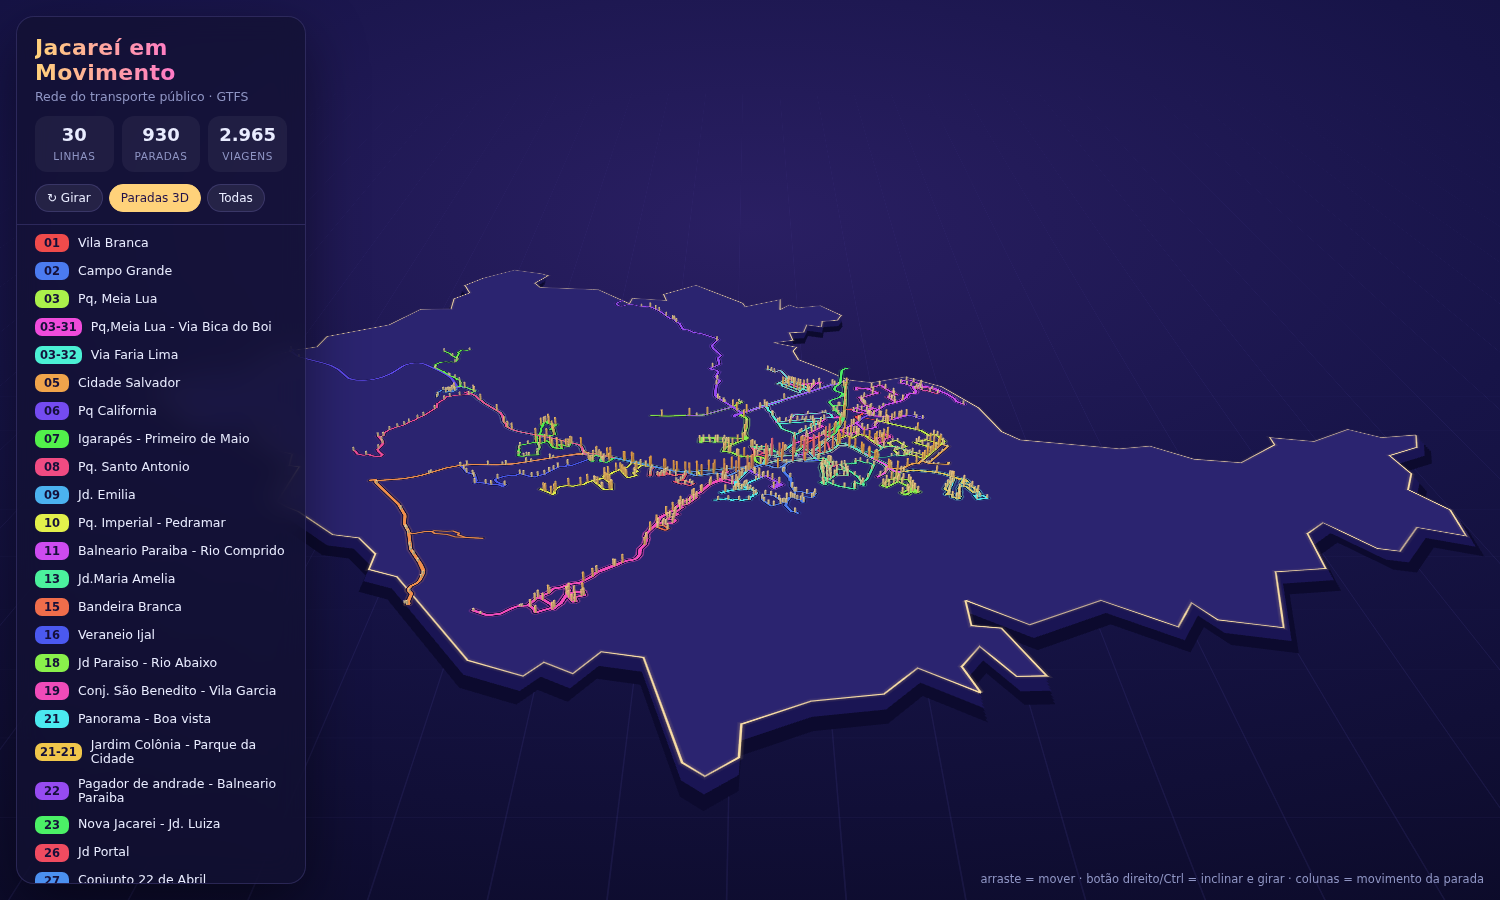
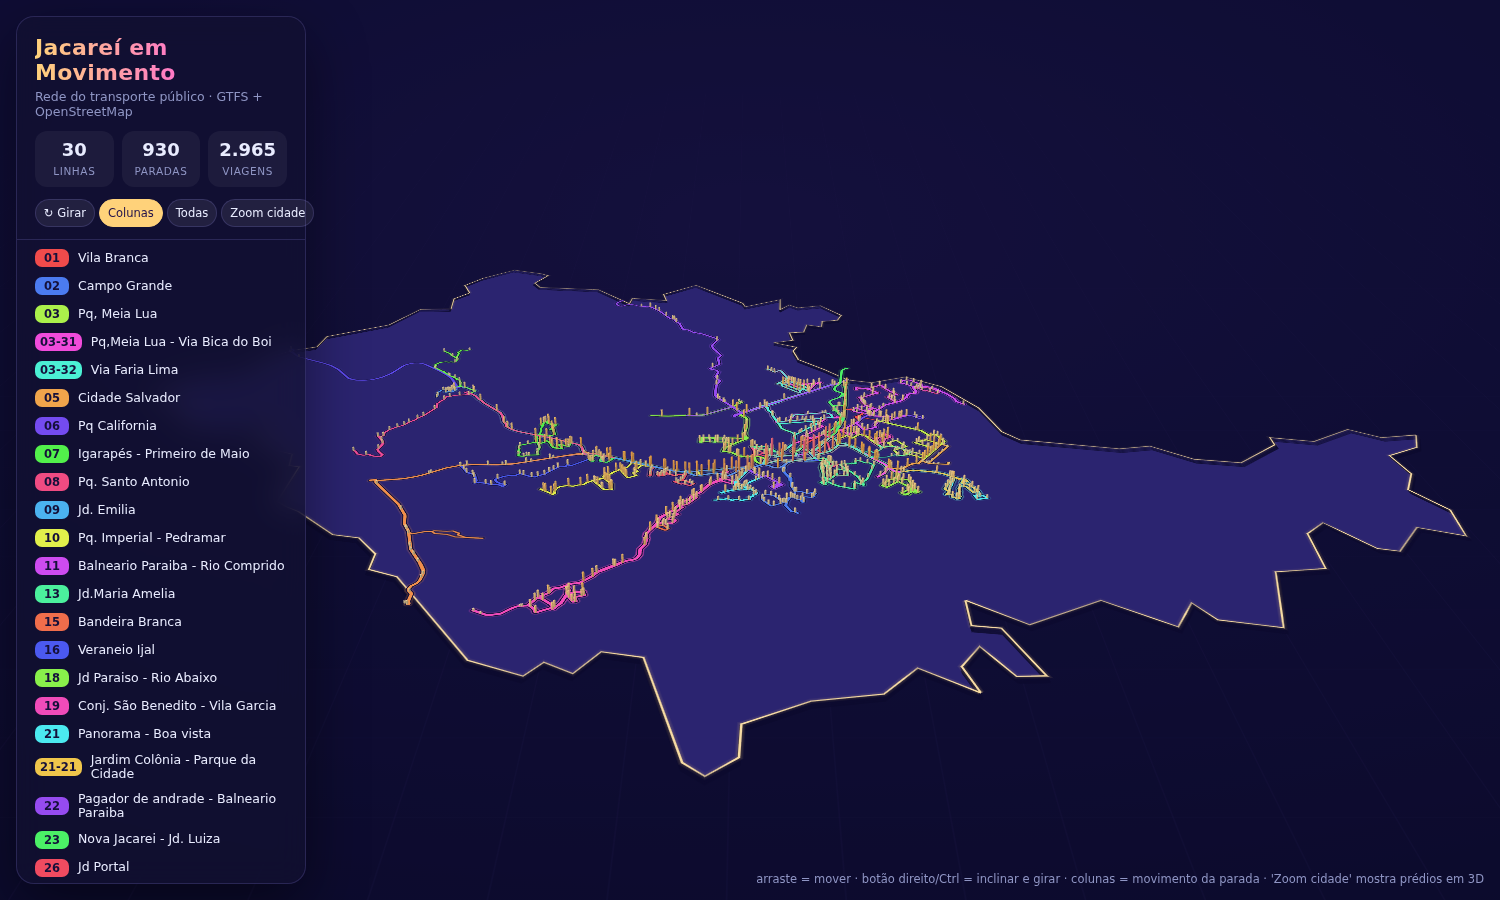
Adiciona contexto urbano (ruas, água, parques, prédios 3D) via OpenFreeMap
Claude-Session: https://claude.ai/code/session_01AVHW5ibafKLZc8BskQ5qtg

diff --git a/jacarei/mapa-transporte-publico-jacarei.html b/jacarei/mapa-transporte-publico-jacarei.html
@@ -15,8 +15,8 @@ h1{margin:0;font-size:22px;letter-spacing:.3px;font-weight:700;background:linear
 .stats{display:flex;gap:8px;padding:0 18px 12px}
 .stat{flex:1;background:rgba(255,255,255,.05);border-radius:12px;padding:8px 6px;text-align:center}
 .stat b{display:block;font-size:18px}.stat span{font-size:10.5px;color:var(--dim);text-transform:uppercase;letter-spacing:.6px}
-.btns{display:flex;gap:6px;padding:0 18px 12px}
-button{font:inherit;font-size:12px;color:var(--ink);background:rgba(255,255,255,.07);border:1px solid var(--line);border-radius:999px;padding:6px 11px;cursor:pointer}
+.btns{display:flex;gap:4px;white-space:nowrap;padding:0 18px 12px}
+button{font:inherit;font-size:11.5px;color:var(--ink);background:rgba(255,255,255,.07);border:1px solid var(--line);border-radius:999px;padding:6px 8px;cursor:pointer}
 button:hover{background:rgba(255,255,255,.15)}button.on{background:#ffd27a;color:#22124a;border-color:#ffd27a}
 #list{overflow:auto;padding:4px 10px 12px;border-top:1px solid var(--line)}
 .row{display:flex;align-items:center;gap:9px;padding:5px 8px;border-radius:10px;cursor:pointer;font-size:12.5px}
@@ -29,12 +29,12 @@ button:hover{background:rgba(255,255,255,.15)}button.on{background:#ffd27a;color
 </style></head><body>
 <div id="map"></div><div id="tip"></div>
 <aside id="panel">
- <header><h1>Jacareí em Movimento</h1><div class="sub">Rede do transporte público · GTFS</div></header>
+ <header><h1>Jacareí em Movimento</h1><div class="sub">Rede do transporte público · GTFS + OpenStreetMap</div></header>
  <div class="stats"><div class="stat"><b id="sl"></b><span>linhas</span></div><div class="stat"><b id="ss"></b><span>paradas</span></div><div class="stat"><b id="st"></b><span>viagens</span></div></div>
- <div class="btns"><button id="rot">↻ Girar</button><button id="bars" class="on">Paradas 3D</button><button id="all">Todas</button></div>
+ <div class="btns"><button id="rot">↻ Girar</button><button id="bars" class="on">Colunas</button><button id="all">Todas</button><button id="city">Zoom cidade</button></div>
  <div id="list"></div>
 </aside>
-<div id="hint">arraste = mover · botão direito/Ctrl = inclinar e girar · colunas = movimento da parada</div>
+<div id="hint">arraste = mover · botão direito/Ctrl = inclinar e girar · colunas = movimento da parada · 'Zoom cidade' mostra prédios em 3D</div>
 <script>/**
  * MapLibre GL JS
  * @license 3-Clause BSD. Full text of license: https://github.com/maplibre/maplibre-gl-js/blob/v4.7.1/LICENSE.txt
@@ -101,7 +101,7 @@ const info=D.info.sort((a,b)=>a.r.localeCompare(b.r,'pt',{numeric:true}));
 const cx=-45.96,cy=-23.30;
 const bb=[[Infinity,Infinity],[-Infinity,-Infinity]];
 D.mun.geometry.coordinates[0].forEach(([x,y])=>{bb[0][0]=Math.min(bb[0][0],x);bb[0][1]=Math.min(bb[0][1],y);bb[1][0]=Math.max(bb[1][0],x);bb[1][1]=Math.max(bb[1][1],y)});
-const map=new maplibregl.Map({container:'map',style:{version:8,sources:{},layers:[]},bounds:[[-46.09,-23.37],[-45.78,-23.23]],fitBoundsOptions:{padding:{left:340,top:20,right:20,bottom:20}},pitch:62,bearing:-22,maxPitch:80,attributionControl:false,antialias:true});
+const map=new maplibregl.Map({container:'map',style:{version:8,glyphs:'https://tiles.openfreemap.org/fonts/{fontstack}/{range}.pbf',sources:{},layers:[]},bounds:[[-46.09,-23.37],[-45.78,-23.23]],fitBoundsOptions:{padding:{left:340,top:20,right:20,bottom:20}},pitch:62,bearing:-22,maxPitch:80,attributionControl:false,antialias:true});
 // graticule
 const gr={type:'FeatureCollection',features:[]};
 for(let x=bb[0][0]-.25;x<=bb[1][0]+.25;x+=.02)gr.features.push({type:'Feature',geometry:{type:'LineString',coordinates:[[x,bb[0][1]-.25],[x,bb[1][1]+.25]]}});
@@ -112,15 +112,35 @@ const cols={type:'FeatureCollection',features:D.stops.features.map(f=>{const [x,
  for(let i=0;i<=8;i++){const a=i/8*Math.PI*2;ring.push([x+Math.cos(a)*R/k,y+Math.sin(a)*R])}
  return {type:'Feature',properties:{t:f.properties.t,n:f.properties.n,h:30+Math.sqrt(f.properties.t)*14},geometry:{type:'Polygon',coordinates:[ring]}}})};
 const colorExpr=['match',['get','r'],...info.flatMap(i=>[i.r,i.c]),'#fff'];
+map.on('error',()=>{});
 map.on('load',()=>{
  map.addSource('g',{type:'geojson',data:gr});
  map.addSource('m',{type:'geojson',data:D.mun});
  map.addSource('r',{type:'geojson',data:D.routes});
  map.addSource('s',{type:'geojson',data:cols});
  map.addLayer({id:'grid',type:'line',source:'g',paint:{'line-color':'#8a7dff','line-opacity':.09,'line-width':.7}});
- // pseudo-thickness: stacked translated copies
- for(let i=34;i>=2;i-=4)map.addLayer({id:'side'+i,type:'fill',source:'m',paint:{'fill-color':i>18?'#0c0a2e':'#1a1554','fill-translate':[0,i],'fill-translate-anchor':'viewport','fill-antialias':false}});
- map.addLayer({id:'top',type:'fill',source:'m',paint:{'fill-color':'#2b2470','fill-opacity':1}});
+ map.addLayer({id:'top',type:'fill',source:'m',paint:{'fill-color':'#2b2470'}});
+ // ---- contexto urbano (OpenFreeMap / OpenStreetMap) ----
+ map.addSource('osm',{type:'vector',url:'https://tiles.openfreemap.org/planet',attribution:'© OpenStreetMap · OpenFreeMap'});
+ const L=(id,type,sl,paint,extra={})=>map.addLayer({id,type,source:'osm','source-layer':sl,paint,...extra});
+ L('o-wood','fill','landcover',{'fill-color':'#1f4a6e','fill-opacity':.55},{filter:['in',['get','class'],['literal',['wood','grass','farmland']]]});
+ L('o-park','fill','park',{'fill-color':'#1f5a78','fill-opacity':.6});
+ L('o-res','fill','landuse',{'fill-color':'#35298a','fill-opacity':.7},{filter:['in',['get','class'],['literal',['residential','suburb','neighbourhood']]]});
+ L('o-ind','fill','landuse',{'fill-color':'#3b2f7a','fill-opacity':.6},{filter:['in',['get','class'],['literal',['industrial','commercial','retail']]]});
+ L('o-water','fill','water',{'fill-color':'#0d2b66'});
+ L('o-waterway','line','waterway',{'line-color':'#1b4a9c','line-width':['interpolate',['linear'],['zoom'],10,.6,15,2.5]});
+ const rc=['in',['get','class'],['literal',['motorway','trunk','primary','secondary','tertiary']]];
+ L('o-road-min','line','transportation',{'line-color':'#5a4ec4','line-opacity':.75,'line-width':['interpolate',['linear'],['zoom'],11,.3,15,2.6]},{minzoom:11,filter:['in',['get','class'],['literal',['minor','service']]],layout:{'line-cap':'round'}});
+ L('o-road-maj','line','transportation',{'line-color':'#a99cff','line-opacity':.9,'line-width':['interpolate',['linear'],['zoom'],9,.6,15,4.5]},{filter:rc,layout:{'line-cap':'round','line-join':'round'}});
+ L('o-road-hw','line','transportation',{'line-color':'#ffb86b','line-width':['interpolate',['linear'],['zoom'],9,1,15,6]},{filter:['in',['get','class'],['literal',['motorway','trunk']]],layout:{'line-cap':'round'}});
+ L('o-rail','line','transportation',{'line-color':'#6f6bb0','line-dasharray':[2,2],'line-width':1},{filter:['==',['get','class'],'rail']});
+ L('o-bld','fill-extrusion','building',{'fill-extrusion-color':['interpolate',['linear'],['get','render_height'],0,'#5246b8',40,'#8a7dff',120,'#c9c0ff'],'fill-extrusion-height':['max',['get','render_height'],6],'fill-extrusion-base':['get','render_min_height'],'fill-extrusion-opacity':.92,'fill-extrusion-vertical-gradient':true},{minzoom:13});
+ // fora do município: escurece o contexto
+ const ring=D.mun.geometry.coordinates[0];
+ map.addSource('mask',{type:'geojson',data:{type:'Feature',geometry:{type:'Polygon',coordinates:[[[-48,-25.5],[-43.5,-25.5],[-43.5,-21.5],[-48,-21.5],[-48,-25.5]],ring]}}});
+ map.addLayer({id:'mask',type:'fill',source:'mask',paint:{'fill-color':'#0d0b2e','fill-opacity':.72}});
+ map.addLayer({id:'place',type:'symbol',source:'osm','source-layer':'place',minzoom:10,filter:['in',['get','class'],['literal',['city','town','village','suburb','neighbourhood']]],layout:{'text-field':['coalesce',['get','name:pt'],['get','name']],'text-font':['Noto Sans Regular'],'text-size':['interpolate',['linear'],['zoom'],10,11,15,14],'text-transform':'uppercase','text-letter-spacing':.12,'text-max-width':8},paint:{'text-color':'#e9e4ff','text-halo-color':'#120f3a','text-halo-width':1.5,'text-opacity':.85}});
+ for(let i=8;i>=2;i-=2)map.addLayer({id:'side'+i,type:'line',source:'m',paint:{'line-color':'#0c0a2e','line-width':2.4,'line-translate':[0,i],'line-translate-anchor':'viewport','line-opacity':.85}});
  map.addLayer({id:'topglow',type:'line',source:'m',paint:{'line-color':'#ffd27a','line-width':6,'line-blur':8,'line-opacity':.55}});
  map.addLayer({id:'edge',type:'line',source:'m',paint:{'line-color':'#ffe3a8','line-width':1.6,'line-opacity':.95}});
  map.addLayer({id:'glow',type:'line',source:'r',layout:{'line-cap':'round','line-join':'round'},paint:{'line-color':colorExpr,'line-width':['interpolate',['linear'],['zoom'],10,4,14,14],'line-blur':8,'line-opacity':.35}});
@@ -142,6 +162,7 @@ map.on('load',()=>{
  const tick=()=>{map.setBearing(map.getBearing()+.12);raf=requestAnimationFrame(tick)};
  rot.onclick=()=>{spin=!spin;rot.classList.toggle('on',spin);if(spin)tick();else cancelAnimationFrame(raf)};
  const bt=document.getElementById('bars');bt.onclick=()=>{const v=map.getLayoutProperty('bars','visibility')==='none';map.setLayoutProperty('bars','visibility',v?'visible':'none');bt.classList.toggle('on',v)};
+ document.getElementById('city').onclick=()=>map.flyTo({center:[-45.966,-23.305],zoom:14.6,pitch:66,bearing:-28,duration:3500});
  const tip=document.getElementById('tip');
  map.on('mousemove',e=>{const fs=map.queryRenderedFeatures(e.point,{layers:['bars','route']});map.getCanvas().style.cursor=fs.length?'pointer':'';
   if(!fs.length){tip.style.display='none';return}const p=fs[0].properties;
